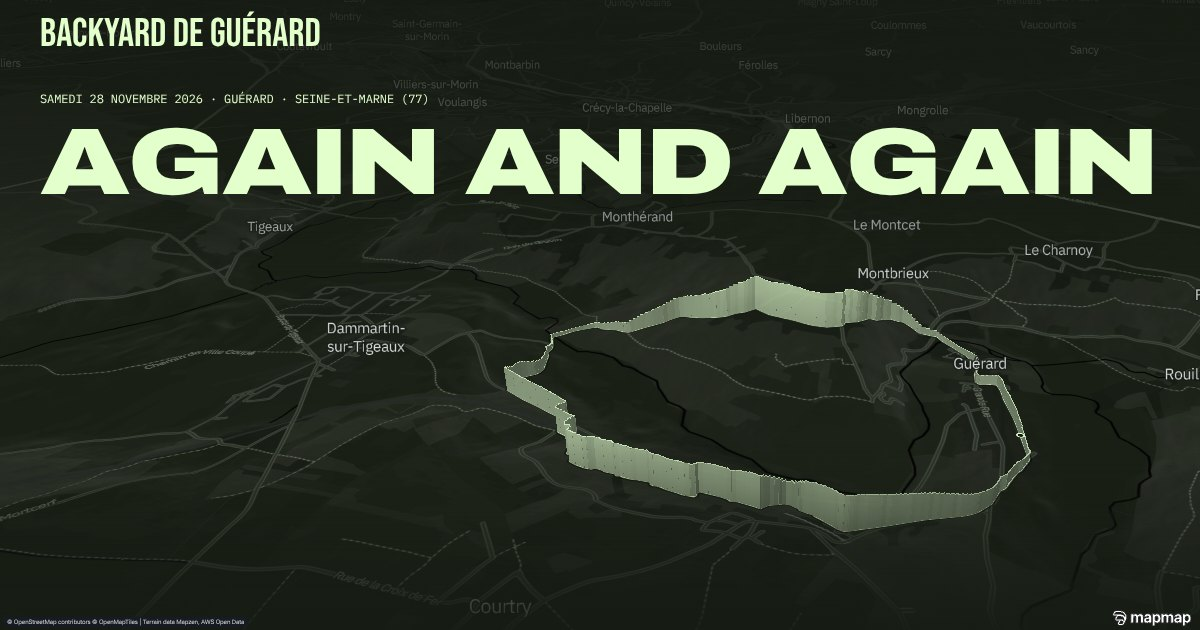
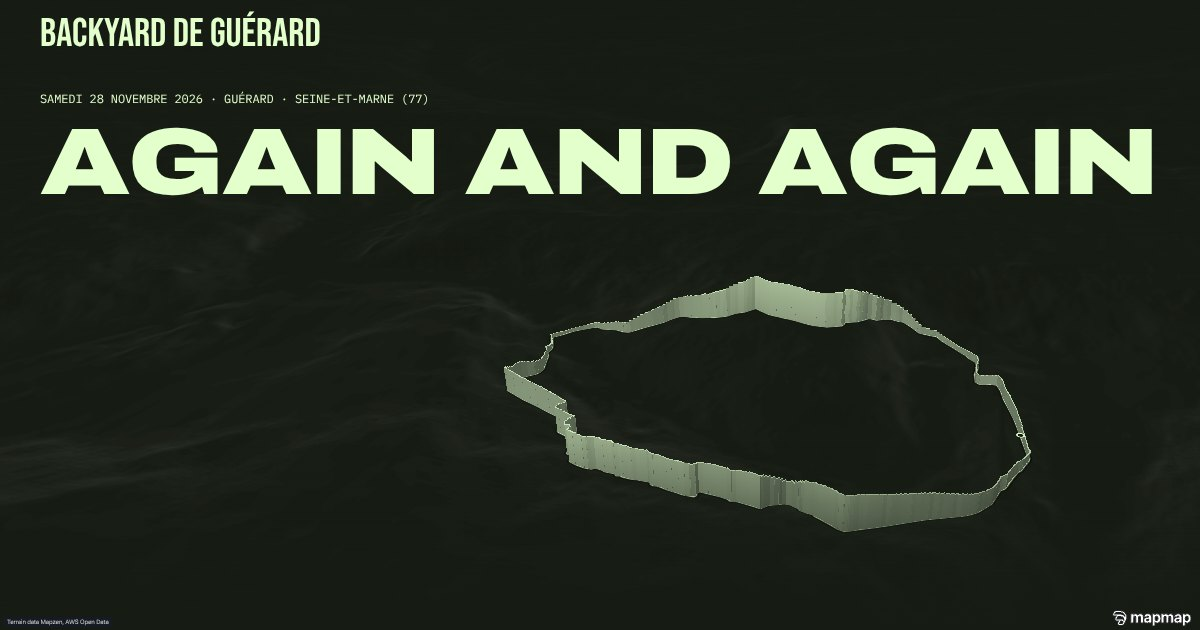
Fond 3D en relief seul, sans routes ni noms de lieux
Du fond de carte, la scène ne garde que la couleur de fond et l'ombrage du
relief : routes, rivières et noms de lieux sont masqués (et leurs tuiles ne
sont plus téléchargées). La boucle et son mur d'altitude se détachent sur le
relief, comme sur la version en production sans clé ; la clé MapMap n'est
plus nécessaire à l'affichage. Crédits du pied de page et images OG / de
secours mis à jour.

Claude-Session: https://claude.ai/code/session_01XQjRjySaBPTnVFW2jGKrTy

diff --git a/src/map/forestMap.ts b/src/map/forestMap.ts
@@ -1,5 +1,6 @@
 /**
- * La carte MapMap de la page 2 : papier topo de nuit, relief, la boucle en menthe.
+ * La scène MapMap (fond des deux pages) : le relief ombré seul, la boucle en menthe et
+ * son mur d'altitude.
  *
  * Deux modes de style :
  * - `VITE_MAPMAP_STYLE_URL` défini → style hébergé (compilateur canonique : il porte
@@ -12,7 +13,7 @@ import * as maplibregl from "maplibre-gl";
 import { createMap, type MapMapMap, type Theme } from "@mapmap/maps";
 import type { ExpressionSpecification } from "maplibre-gl";
 import type { FeatureCollection, LineString, Point } from "geojson";
-import { forestTheme, HILLSHADE, ROAD_SHIELD_LAYERS, sdkCompatibleTheme, TERRAIN_EXAGGERATION } from "./theme";
+import { forestTheme, HILLSHADE, sdkCompatibleTheme, TERRAIN_EXAGGERATION } from "./theme";
 import { palette } from "../styles/tokens";
 import { route } from "../data/route";
 import { buildWall, WALL_H_MAX, WALL_H_MIN, type WallSegment } from "./wall";
@@ -84,8 +85,20 @@ function applySky(map: maplibregl.Map) {
   });
 }
 
-function hideRoadShields(map: maplibregl.Map) {
-  for (const id of ROAD_SHIELD_LAYERS) if (map.getLayer(id)) map.setLayoutProperty(id, "visibility", "none");
+/** Nos couches (la boucle, son mur, le départ) : toujours visibles. */
+const OWN_LAYERS = new Set(["route-wall", "route-casing", "route-line", "route-start"]);
+
+/**
+ * Fond « relief seul » : on ne garde du fond de carte que la couleur de fond et l'ombrage
+ * du relief ; routes, rivières, bâti et noms de lieux sont masqués. MapLibre ne charge pas
+ * les tuiles d'une source dont toutes les couches sont masquées : le fond vectoriel n'est
+ * plus téléchargé (et la clé MapMap n'est plus nécessaire à l'affichage).
+ */
+function reliefOnly(map: maplibregl.Map) {
+  for (const layer of map.getStyle().layers ?? []) {
+    if (OWN_LAYERS.has(layer.id) || layer.type === "background" || layer.type === "hillshade") continue;
+    if (map.getLayoutProperty(layer.id, "visibility") !== "none") map.setLayoutProperty(layer.id, "visibility", "none");
+  }
 }
 
 /** Dégradé « coupé » à `p` le long de la ligne (source en `lineMetrics`). */
@@ -226,7 +239,7 @@ export async function createForestMap({ container, mobile }: ForestMapOptions): 
 
   const onStyle = () => {
     applySky(map);
-    hideRoadShields(map);
+    reliefOnly(map);
     if (styleMode === "sdk-dev") tuneDevHillshade(map);
   };
   map.on("style.load", onStyle);

diff --git a/index.html b/index.html
@@ -156,9 +156,7 @@
       <p class="wordmark wordmark--ink">{{fullName}}</p>
       <ul class="caption site-footer__list">{{html:footerCredits}}</ul>
       <p class="caption site-footer__credits">
-        Carte : <a class="link-serif" href="https://mapmap.ai">MapMap</a> · ©
-        <a class="link-serif" href="https://www.openstreetmap.org/copyright">OpenStreetMap contributors</a> · © OpenMapTiles ·
-        Relief : Mapzen, AWS Open Data.
+        Carte : <a class="link-serif" href="https://mapmap.ai">MapMap</a> · Relief : Mapzen, AWS Open Data.
       </p>
       <div class="caption site-footer__caption">
         <p>{{commune}} · {{departement}}</p>

diff --git a/src/map/theme.ts b/src/map/theme.ts
@@ -50,9 +50,6 @@ export const forestTheme = {
   territories: { planet: { road_shields: { visible: false } } },
 } as const;
 
-/** Couches de cartouches routiers (même règle, appliquée aussi au runtime). */
-export const ROAD_SHIELD_LAYERS = ["road-shields", "road-shields-street"] as const;
-
 export type ForestTheme = typeof forestTheme;
 
 /**

diff --git a/src/styles/app.css b/src/styles/app.css
@@ -606,7 +606,7 @@
     /* la scène passe derrière le relief : un voile pour que le profil se lise */
     .relief {
       padding-top: 16px;
-      background: rgb(22 27 19 / 0.78);
+      background: rgb(22 27 19 / 0.6);
     }
     /* trop serré pour tout dire : les montées restent en légende de la page */
     .relief__label--climb,

diff --git a/README.md b/README.md
@@ -26,8 +26,8 @@ npm run build           # typecheck + build prod dans dist/
 npm run preview         # sert dist/
 ```
 
-En local, la carte fonctionne **sans clé** (les tuiles sans clé servent localhost).
-En production, une clé navigateur est obligatoire (sinon tuiles 403 et carte vide).
+La scène 3D n'affiche que le relief, qui ne demande pas de clé : elle s'affiche aussi en
+production sans `VITE_MAPMAP_KEY`.
 
 ## Variables d'environnement
 
@@ -36,7 +36,7 @@ Copier `.env.example` en `.env` (en prod : variables du projet Vercel).
 | Variable | Où | Rôle |
 |---|---|---|
 | `VITE_INSCRIPTION_ENDPOINT` | navigateur | Adresse qui reçoit les inscriptions (ci-dessous). Vide → bouton désactivé. |
-| `VITE_MAPMAP_KEY` | navigateur | Clé MapMap restreinte à l'origine du site. **Obligatoire en prod.** |
+| `VITE_MAPMAP_KEY` | navigateur | Clé MapMap restreinte à l'origine du site. La scène n'affiche que le relief (sans clé, rien ne manque à l'écran) ; à mettre si l'on réaffiche le fond de carte. |
 | `VITE_MAPMAP_STYLE_URL` | navigateur | Style hébergé, écrit dans `.env.local` par `npm run create:style`. |
 | `SITE_URL` | build | URL publique (rend `og:image` absolue). |
 | `MAPMAP_API_KEY` | scripts uniquement | `prepare:route`, `create:style`, `static:map`. Jamais dans le bundle : Vite n'expose que `VITE_*`. |
@@ -120,10 +120,14 @@ carte :
 - MapLibre + SDK (~1 Mo) sont un chunk séparé, chargé à la première interaction ou
   3,5 s après le chargement ; avant, le tracé est dessiné en SVG à la même place.
   Tout s'arrête quand aucune des deux pages n'est à l'écran ou que l'onglet est caché.
+- **Relief seul** : du fond de carte, on ne garde que la couleur de fond et l'ombrage du
+  relief (`reliefOnly`, `src/map/forestMap.ts`) ; routes, rivières et noms de lieux
+  sont masqués, et leurs tuiles ne sont donc pas téléchargées.
 - Thème dans `src/map/theme.ts`. Sans `VITE_MAPMAP_STYLE_URL`, repli sur le compilateur
   réduit du SDK (qui refuse le bloc `terrain`) : relief et ombrage demandés au SDK.
-- Sans clé (`VITE_MAPMAP_KEY`) hors localhost, le fond de carte est refusé (403) : il
-  reste le relief, la boucle et son mur.
+- Sans clé (`VITE_MAPMAP_KEY`) hors localhost, l'en-tête du fond vectoriel est refusé
+  (403, avertissement `basemap-forbidden` en console) ; l'affichage n'en dépend pas
+  (relief seul).
 - Logo MapMap (bas droite) et attribution (bas gauche) : jamais masqués ni recouverts
   (voile de lisibilité placé sous les coins de contrôle, bas des pages laissé libre).
 
